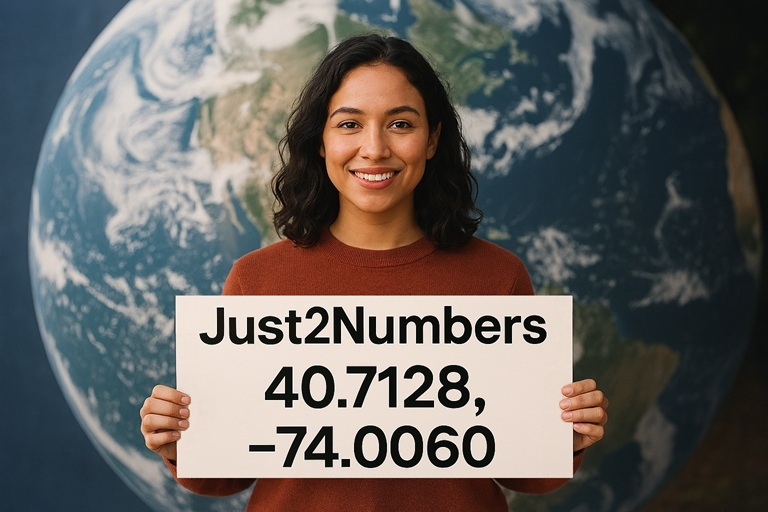
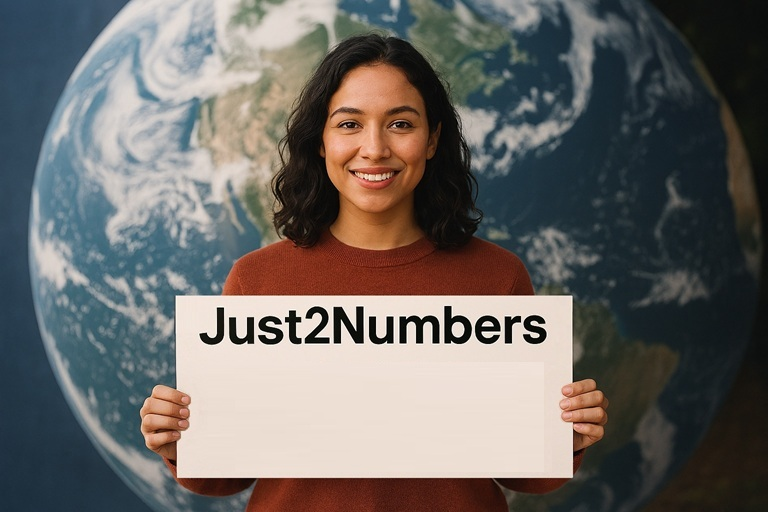
Add files via upload
Updated home page.

Changed region(s): [[0.3125, 0.6875, 0.6562, 0.9375]]

diff --git a/index.html b/index.html
@@ -9,24 +9,39 @@
 </head>
 <body>
 
-<div class="container">
-    <div class="image-container">
-        <img src="Just2Numbers.jpeg" alt="Just2Numbers Image">
+    <div class="container">
+
+        <div class="hero">
+            <img src="Just2Numbers.jpeg" alt="Just2Numbers Image">
+
+            <div class="number-box">
+                <span id="latitude">Waiting,</span>
+                <span id="longitude">...</span>
+            </div>
+        </div>
+
+        <!--<div class="image-container">
+            <img src="Just2Numbers.jpeg" alt="Just2Numbers Image">
+            <div class="coords-overlay">
+                <div id="latitude">0.000000</div>
+                <div id="longitude">0.000000</div>
+            </div>
+        </div>-->
+
+        <h1>Just2Numbers</h1>
+        <div class="location" id="location">Fetching location...</div>
+        <button class="copy-button" id="copyButton" onclick="copyLocation()" style="display:none;">Copy Location</button>
+        <div>
+            <button onclick="getLocation()">Refresh Location</button>
+        </div>
+        <br>
+        <div>
+            Just2Numbers provides a simple web interface to show the current location in an open and flexible format.
+            Clickable links are provided to allow location data to be displayed or shared via various different mechanisms such as WhatsApp, Facebook etc.<br>
+            Privacy: Just2Numbers runs code in the browser and is entirely static content. Just2Numbers does not currently use cookies. Just2Numbers does not see or collect any location data from end users.<br>
+            <a class="link" href="https://www.Just2Numbers.com" target="_blank">Just2Numbers Home</a>
+        </div>
     </div>
-    <h1>Just2Numbers</h1>
-    <div class="location" id="location">Fetching location...</div>
-    <button class="copy-button" id="copyButton" onclick="copyLocation()" style="display:none;">Copy Location</button>
-    <div>
-    <button onclick="getLocation()">Refresh Location</button>
-    </div>
-    <br>
-    <div>
-        Just2Numbers provides a simple web interface to show the current location in an open and flexible format. 
-        Clickable links are provided to allow location data to be displayed or shared via various different mechanisms such as WhatsApp, Facebook etc.<br>
-        Privacy: Just2Numbers runs code in the browser and is entirely static content. Just2Numbers does not currently use cookies. Just2Numbers does not see or collect any location data from end users.<br>
-        <a class="link" href="https://www.Just2Numbers.com" target="_blank">Just2Numbers Home</a>
-    </div>
-</div>
 
 <script>
 
@@ -94,7 +109,11 @@
         ukLoc = isLocationInUK( lat, long );
         UKGridRefText = "";
         UKMsgNewLine ="";
-        UKHtmlNewLine ="";
+        UKHtmlNewLine = "";
+
+        document.getElementById("latitude").textContent = lat.toFixed(6);
+        document.getElementById("longitude").textContent = lon.toFixed(6);
+
         if (ukLoc )
         {
             gridRef = latLongToGridRef(lat, long);

diff --git a/styles.css b/styles.css
@@ -73,6 +73,9 @@ h2 {
 }
 
 
+
+
+
 .image-container {
     max-width: 100%;
     margin: 0 auto 20px;
@@ -84,4 +87,58 @@ h2 {
     border: none;          /* removes green border */
     border-radius: 10px;   /* optional */
     display: block;
+}
+
+.hero-container {
+    position: relative;
+}
+
+.coords-overlay {
+    position: absolute;
+    bottom: 18%;
+    right: 12%;
+    background: white;
+    padding: 16px 24px;
+    border-radius: 6px;
+    font-family: system-ui, sans-serif;
+    font-size: 32px;
+    font-weight: 600;
+    color: #000;
+    display: flex;
+    flex-direction: column;
+    line-height: 1.2;
+}
+
+
+.hero {
+    position: relative;
+    width: 100%;
+    max-width: 1200px;
+    margin: auto;
+}
+
+    .hero img {
+        width: 100%;
+        display: block;
+    }
+
+.number-box {
+    position: absolute;
+    bottom: 8%;
+    right: 29%;
+    top: 68%;
+    left: 31%;
+    color: #000; /* black text */
+    background: #EDDFD4;
+    padding: 5px 5px;
+    border-radius: 4px;
+    font-size: clamp(24px, 4vw, 40px);
+    font-weight: bold;
+    font-family: Arial, sans-serif;
+    /*    box-shadow: 0 4px 10px rgba(0,0,0,0.2);
+*/
+}
+
+.separator {
+    margin: 0 10px;
 }
